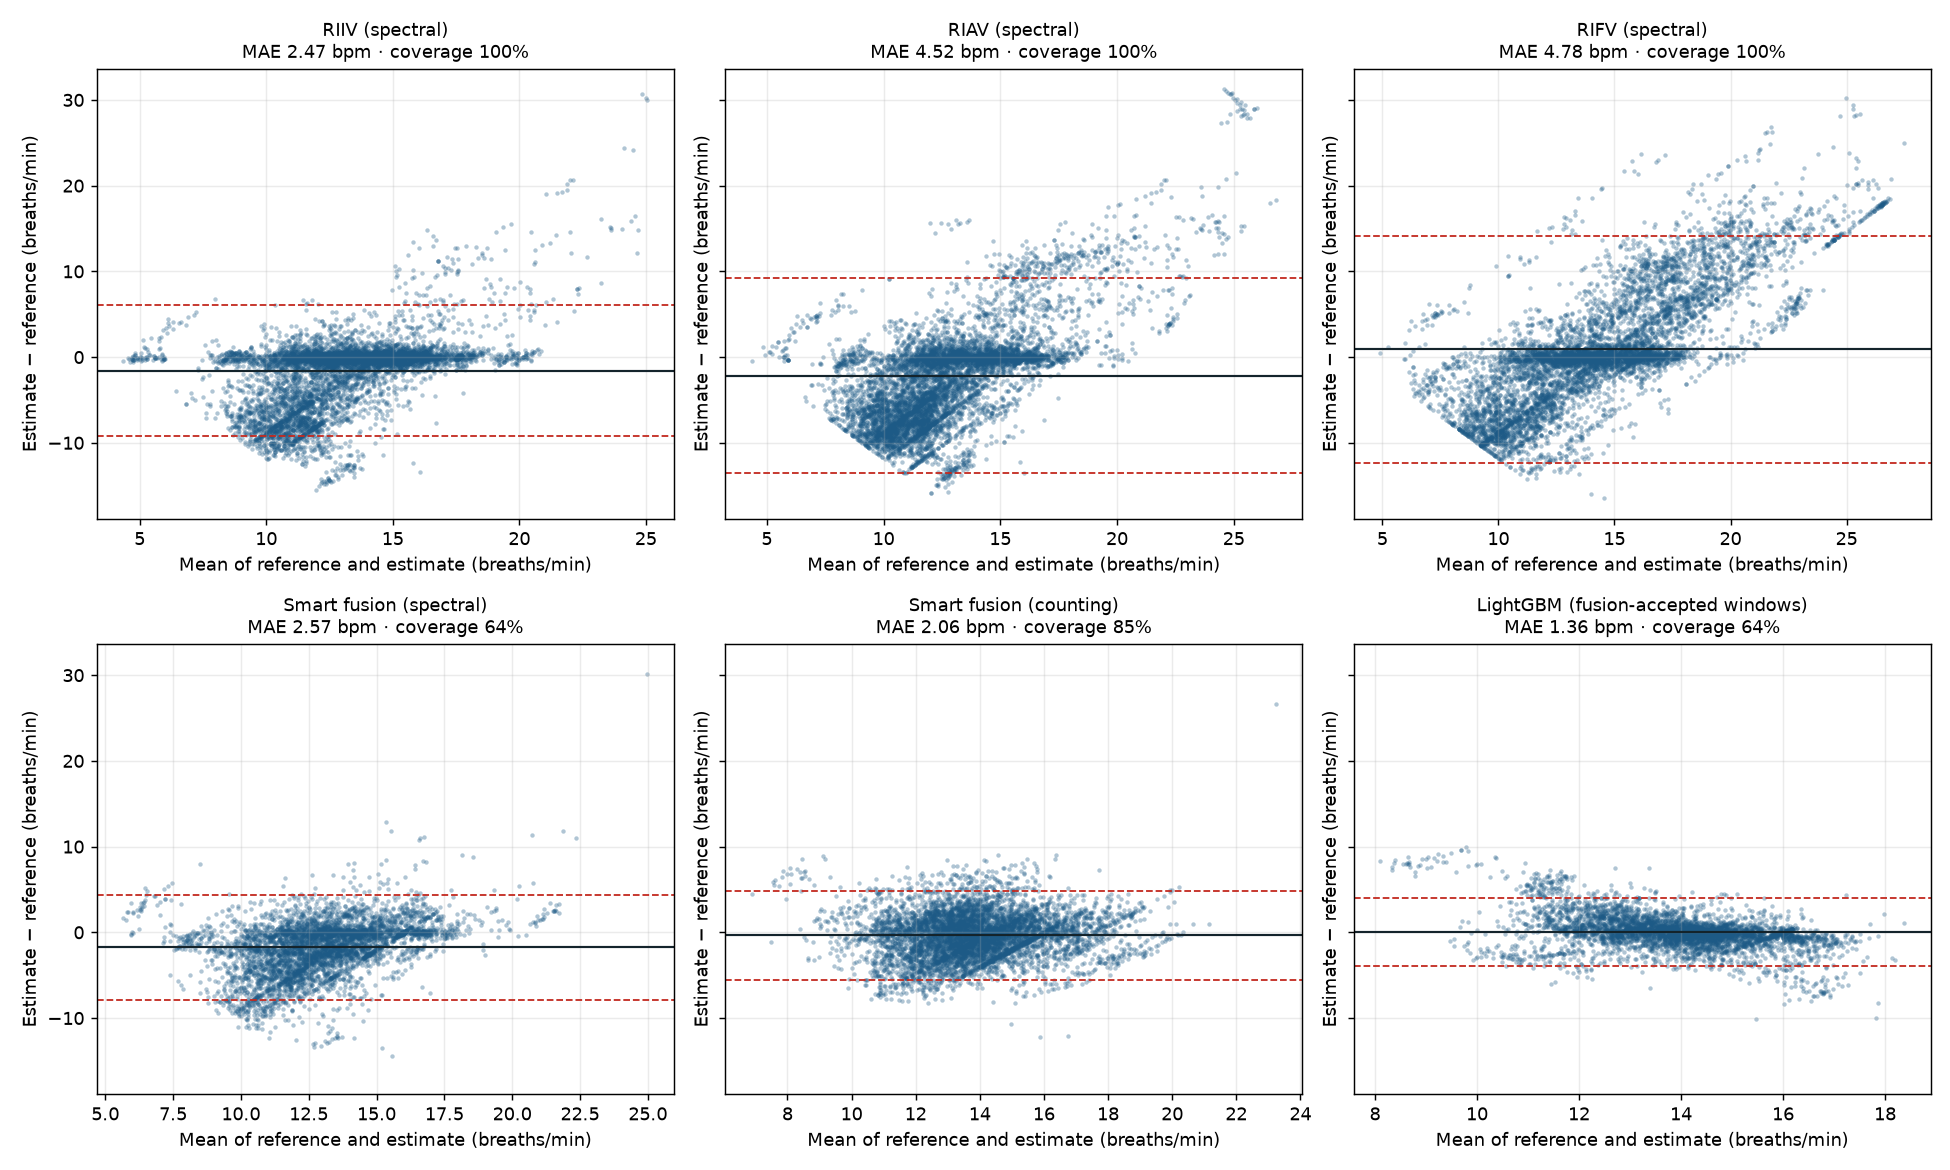
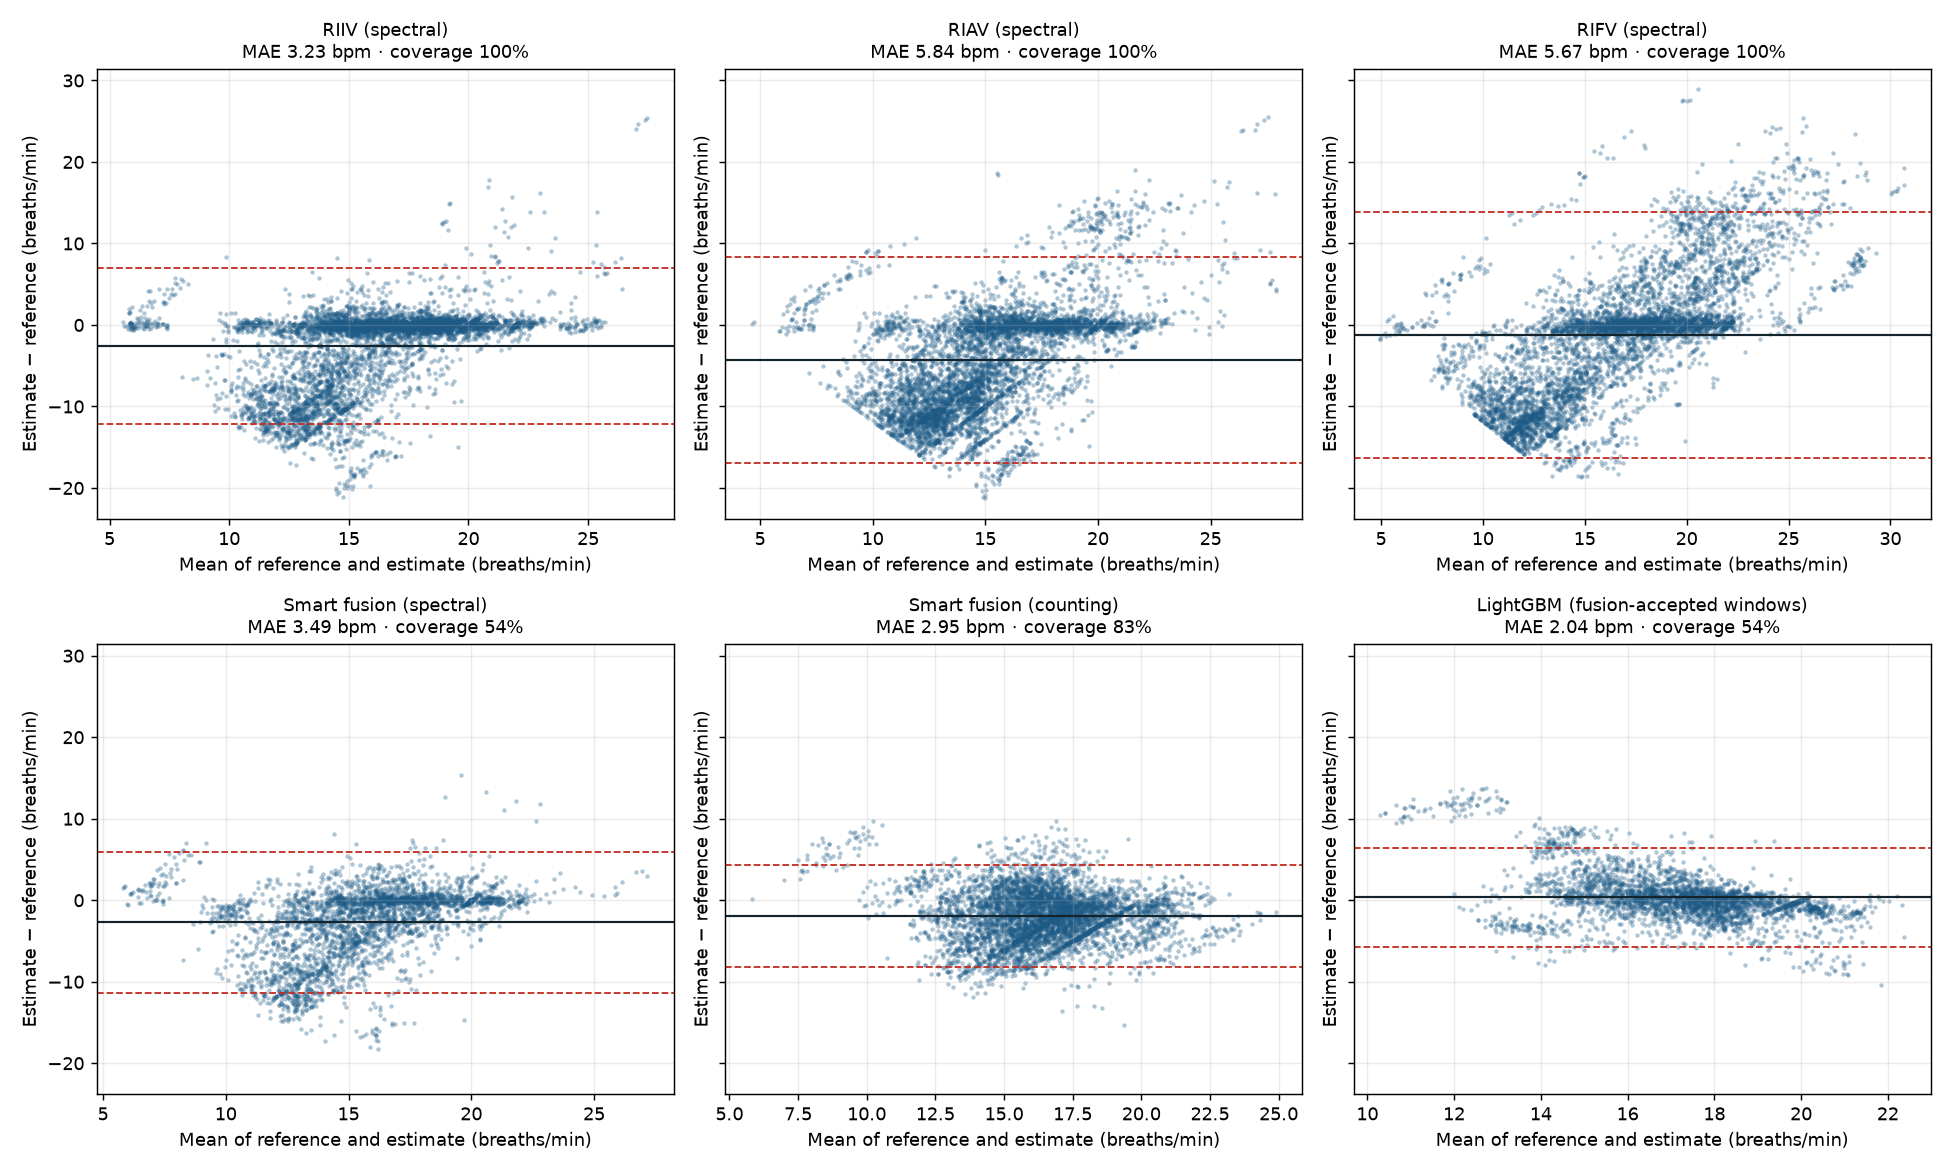
Fix BIDMC sampling rate and add heart-rate validation
The CSV timestamps are rounded, so the median step gave 100 Hz instead of 125 Hz; derive the rate from the sample count. All respiratory-rate results are recomputed: LightGBM MAE is 1.95 breaths/min and its worst band is slow breathing, not fast breathing as previously reported.

Add heart-rate validation against the monitor's ECG heart rate, including the deployed web algorithm run on 30 Hz PPG in Node: MAE 1.74 beats/min on 32 s windows. Document a failure case (subject 41).

diff --git a/scripts/hr_web_eval.js b/scripts/hr_web_eval.js
@@ -1,0 +1,51 @@
+/* Run the deployed browser algorithm (web/ppg-dsp.js) on BIDMC PPG, resampled to 30 Hz like a phone camera.
+   Usage: node scripts/hr_web_eval.js [csvDir] [out.csv]
+   Writes subject,start_s,win_s,web_hr,web_quality,web_rr for 32 s and 10 s windows. */
+const fs = require('fs');
+const path = require('path');
+const D = require('../web/ppg-dsp.js');
+
+function findCsvDir(root) {
+  for (const e of fs.readdirSync(root, { withFileTypes: true })) {
+    const p = path.join(root, e.name);
+    if (e.isDirectory()) { const hit = findCsvDir(p); if (hit) return hit; }
+    else if (e.name === 'bidmc_01_Signals.csv') return root;
+  }
+  return null;
+}
+
+const csvDir = process.argv[2] || findCsvDir('data/raw');
+const out = process.argv[3] || 'results/hr_web_predictions.csv';
+const WINDOWS = [[32, 8], [10, 4]];   // [length, step] in seconds
+const FS = 30;
+
+const rows = ['subject,start_s,win_s,web_hr,web_quality,web_rr'];
+const subjects = fs.readdirSync(csvDir).filter(f => /^bidmc_\d+_Signals\.csv$/.test(f)).map(f => f.split('_')[1]).sort();
+for (const s of subjects) {
+  const lines = fs.readFileSync(path.join(csvDir, `bidmc_${s}_Signals.csv`), 'utf8').trim().split(/\r?\n/);
+  const head = lines[0].split(',').map(c => c.trim());
+  const ti = head.findIndex(c => c.startsWith('Time')), pi = head.indexOf('PLETH');
+  const t = [], v = [];
+  for (let i = 1; i < lines.length; i++) {
+    const c = lines[i].split(',');
+    const val = parseFloat(c[pi]);
+    if (Number.isFinite(val)) { t.push(parseFloat(c[ti])); v.push(val); }
+  }
+  // 125 Hz -> 30 Hz uniform, as the camera pipeline sees it
+  const t0 = t[0], t1 = t[t.length - 1];
+  const x = D.resample(t, v, FS, t0, t1);
+  const tx = Array.from(x, (_, i) => t0 + i / FS);
+  for (const [win, step] of WINDOWS) {
+    for (let start = 0; start + win <= t1 - t0 + 1e-9; start += step) {
+      const a = Math.round(start * FS), b = Math.round((start + win) * FS);
+      const r = D.estimate(tx.slice(a, b), Array.from(x.slice(a, b)), { fs: FS, win });
+      const hr = r && Number.isFinite(r.hr) ? r.hr.toFixed(2) : '';
+      const rr = r && Number.isFinite(r.rr) ? r.rr.toFixed(2) : '';
+      rows.push([s, start, win, hr, r ? r.quality : '', rr].join(','));
+    }
+  }
+  process.stdout.write(`subject ${s} done\n`);
+}
+fs.mkdirSync(path.dirname(out), { recursive: true });
+fs.writeFileSync(out, rows.join('\n'));
+console.log(`wrote ${rows.length - 1} rows -> ${out}`);

diff --git a/scripts/validate_hr.py b/scripts/validate_hr.py
@@ -1,0 +1,108 @@
+"""Validate pulse-rate estimation against the ECG heart rate recorded by the BIDMC monitor.
+
+Compares, on 32 s and 10 s windows:
+  - peak detection (Python, 125 Hz)      60 / median beat interval
+  - spectral peak (Python, 125 Hz)
+  - the deployed web algorithm (ppg-dsp.js on 30 Hz PPG; run scripts/hr_web_eval.js first)
+  - the monitor's own pulse rate (PULSE), as a commercial reference point
+Usage:  python scripts/validate_hr.py
+"""
+from __future__ import annotations
+
+import argparse
+from pathlib import Path
+
+import matplotlib
+
+matplotlib.use("Agg")
+import matplotlib.pyplot as plt
+import numpy as np
+import pandas as pd
+
+from ppgrr.data import find_csv_dir, list_subjects, load_numerics, load_recording, window_mean
+from ppgrr.dsp import peak_hr, respiratory_modulations, spectral_hr
+from ppgrr.evaluate import agreement, bland_altman
+
+WINDOWS = [(32.0, 8.0), (10.0, 4.0)]
+
+
+def build(csv_dir: Path) -> pd.DataFrame:
+    rows = []
+    for s in list_subjects(csv_dir):
+        rec, num = load_recording(csv_dir, s), load_numerics(csv_dir, s)
+        mods = respiratory_modulations(rec.ppg, rec.fs)
+        for win, step in WINDOWS:
+            for start in np.arange(0.0, rec.duration - win + 1e-9, step):
+                end = start + win
+                rows.append({
+                    "subject": s, "start_s": float(start), "win_s": win,
+                    "ref_hr": window_mean(num, "HR", start, end),
+                    "monitor_pulse": window_mean(num, "PULSE", start, end),
+                    "peak_hr": peak_hr(mods["beat_times"], start, end),
+                    "spectral_hr": spectral_hr(mods["band"], rec.fs, start, end),
+                })
+    return pd.DataFrame(rows)
+
+
+def main() -> None:
+    ap = argparse.ArgumentParser()
+    ap.add_argument("--raw", type=Path, default=Path("data/raw"))
+    ap.add_argument("--web", type=Path, default=Path("results/hr_web_predictions.csv"))
+    ap.add_argument("--out", type=Path, default=Path("results"))
+    args = ap.parse_args()
+
+    df = build(find_csv_dir(args.raw))
+    if args.web.exists():
+        web = pd.read_csv(args.web, dtype={"subject": str})
+        df = df.merge(web[["subject", "start_s", "win_s", "web_hr", "web_quality"]],
+                      on=["subject", "start_s", "win_s"], how="left")
+    df = df[np.isfinite(df["ref_hr"])]
+
+    methods = {"Peak detection (125 Hz)": "peak_hr", "Spectral peak (125 Hz)": "spectral_hr",
+               "Web algorithm (30 Hz)": "web_hr", "Monitor pulse rate (commercial)": "monitor_pulse"}
+    rows = []
+    for win, _ in WINDOWS:
+        d = df[df.win_s == win]
+        for name, col in methods.items():
+            if col not in d:
+                continue
+            m = agreement(d["ref_hr"], d[col])
+            ok = np.isfinite(d[col])
+            err = (d[col] - d["ref_hr"])[ok]
+            m["mape_pct"] = float((err.abs() / d["ref_hr"][ok]).mean() * 100)
+            m["arms"] = float(np.sqrt((err ** 2).mean()))
+            m["within_5bpm"] = float((err.abs() <= 5).mean())
+            rows.append({"window_s": int(win), "method": name, **m})
+        if "web_quality" in d:   # does the quality flag single out bad windows?
+            for q in ("good", "fair", "poor"):
+                dq = d[d.web_quality == q]
+                if len(dq):
+                    rows.append({"window_s": int(win), "method": f"Web algorithm, quality={q}",
+                                 **agreement(dq["ref_hr"], dq["web_hr"])})
+    table = pd.DataFrame(rows)
+    args.out.mkdir(parents=True, exist_ok=True)
+    table.to_csv(args.out / "hr_metrics.csv", index=False)
+
+    d32 = df[df.win_s == 32]
+    cols = [c for c in methods.values() if c in d32]
+    fig, axes = plt.subplots(1, len(cols), figsize=(5 * len(cols), 4.5), sharey=True)
+    for ax, (name, col) in zip(np.atleast_1d(axes), [(n, c) for n, c in methods.items() if c in d32]):
+        bland_altman(ax, d32["ref_hr"], d32[col], name)
+        ax.set_xlabel("Mean of ECG HR and estimate (beats/min)")
+        ax.set_ylabel("Estimate − ECG HR (beats/min)")
+    fig.tight_layout()
+    fig.savefig(args.out / "hr_bland_altman.png", dpi=130)
+
+    # per-subject view: where do large errors come from?
+    if "web_hr" in d32:
+        per = d32.assign(err=(d32.web_hr - d32.ref_hr).abs()).groupby("subject")["err"].mean().sort_values(ascending=False)
+        per.round(2).to_csv(args.out / "hr_web_error_by_subject.csv")
+        print("worst subjects (web, 32 s MAE):", per.head(5).round(1).to_dict())
+
+    pd.set_option("display.width", 220)
+    print(table[["window_s", "method", "n", "coverage", "mae", "bias", "loa_low", "loa_high",
+                 "within_5bpm", "mape_pct", "arms"]].round(2).to_string(index=False))
+
+
+if __name__ == "__main__":
+    main()

diff --git a/tests/test_dsp.py b/tests/test_dsp.py
@@ -1,8 +1,8 @@
 import numpy as np
 import pytest
 
-from ppgrr.dsp import (counting_rr, resample_window, respiratory_modulations, smart_fusion,
-                       spectral_rr, synthetic_ppg)
+from ppgrr.dsp import (counting_rr, peak_hr, resample_window, respiratory_modulations, smart_fusion,
+                       spectral_hr, spectral_rr, synthetic_ppg)
 from ppgrr.evaluate import agreement
 
 
@@ -18,6 +18,14 @@ def test_each_modulation_recovers_known_rate(rr):
         assert 0 < conc <= 1
 
 
+@pytest.mark.parametrize("hr", [50.0, 72.0, 120.0])
+def test_heart_rate_estimators(hr):
+    fs = 125.0
+    mods = respiratory_modulations(synthetic_ppg(duration=40, fs=fs, hr=hr), fs)
+    assert abs(peak_hr(mods["beat_times"], 0, 40) - hr) < 2.0
+    assert abs(spectral_hr(mods["band"], fs, 0, 32) - hr) < 2.0
+
+
 def test_counting_matches_rate():
     t = np.arange(0, 60, 0.25)
     assert abs(counting_rr(np.sin(2 * np.pi * 12 / 60 * t)) - 12) < 1.0
@@ -27,6 +35,18 @@ def test_smart_fusion_rejects_disagreement():
     assert smart_fusion([15, 15.5, 14.5]) == pytest.approx(15.0)
     assert np.isnan(smart_fusion([10, 15, 25]))
     assert np.isnan(smart_fusion([15, np.nan, 15]))
+
+
+def test_loader_sampling_rate_ignores_rounded_timestamps(tmp_path):
+    from ppgrr.data import load_recording
+    n = 1001
+    t = np.round(np.arange(n) / 125.0, 2)          # rounded like the BIDMC CSVs
+    import pandas as pd
+    pd.DataFrame({"Time [s]": t, " RESP": 0.0, " PLETH": 0.0}).to_csv(tmp_path / "bidmc_01_Signals.csv", index=False)
+    pd.DataFrame({"breaths ann1 [signal sample no]": [1, 126]}).to_csv(tmp_path / "bidmc_01_Breaths.csv", index=False)
+    rec = load_recording(tmp_path, "01")
+    assert rec.fs == 125.0
+    assert rec.breaths["ann1"][1] == pytest.approx(1.0)
 
 
 def test_agreement_metrics():

diff --git a/src/ppgrr/data.py b/src/ppgrr/data.py
@@ -49,7 +49,9 @@ def load_recording(csv_dir: Path, subject: str) -> Recording:
     sig = pd.read_csv(csv_dir / f"bidmc_{subject}_Signals.csv")
     sig.columns = [c.strip() for c in sig.columns]
     t = sig[_col(sig, "Time")].to_numpy(dtype=float)
-    fs = float(round(1.0 / np.median(np.diff(t))))
+    # The CSV rounds timestamps (steps of 0.008 and 0.01 s), so the median step gives 100 Hz;
+    # derive the rate from sample count over the recording span instead (125 Hz).
+    fs = float(round((len(t) - 1) / (t[-1] - t[0])))
 
     br = pd.read_csv(csv_dir / f"bidmc_{subject}_Breaths.csv")
     br.columns = [c.strip() for c in br.columns]
@@ -65,6 +67,19 @@ def load_recording(csv_dir: Path, subject: str) -> Recording:
         resp=sig[_col(sig, "RESP")].to_numpy(dtype=float),
         breaths=breaths,
     )
+
+
+def load_numerics(csv_dir: Path, subject: str) -> pd.DataFrame:
+    """1 Hz monitor values: HR (from ECG), PULSE (monitor's own PPG pulse rate), RESP, SpO2."""
+    num = pd.read_csv(Path(csv_dir) / f"bidmc_{subject}_Numerics.csv")
+    num.columns = [c.strip() for c in num.columns]
+    return num.rename(columns={_col(num, "Time"): "time"})
+
+
+def window_mean(num: pd.DataFrame, col: str, start: float, end: float) -> float:
+    v = num.loc[(num["time"] >= start) & (num["time"] < end), col].to_numpy(dtype=float)
+    v = v[np.isfinite(v)]
+    return float(v.mean()) if len(v) >= 0.8 * (end - start) else np.nan
 
 
 def reference_rr(breath_times: np.ndarray, start: float, end: float) -> float:

diff --git a/src/ppgrr/dsp.py b/src/ppgrr/dsp.py
@@ -123,6 +123,26 @@ def counting_rr(y: np.ndarray, fs: float = RESAMPLE_HZ) -> float:
     return 60.0 * fs / float(np.mean(np.diff(keep)))
 
 
+def peak_hr(beat_times: np.ndarray, start: float, end: float) -> float:
+    """Pulse rate (beats/min) from the median beat interval in [start, end)."""
+    bt = beat_times[(beat_times >= start) & (beat_times < end)]
+    if len(bt) < 4:
+        return np.nan
+    return 60.0 / float(np.median(np.diff(bt)))
+
+
+def spectral_hr(band: np.ndarray, fs: float, start: float, end: float, nfft: int = 8192) -> float:
+    """Pulse rate (beats/min) from the spectral peak of the band-passed PPG, 40–180 beats/min."""
+    seg = band[int(start * fs):int(end * fs)]
+    if len(seg) < fs * 4:
+        return np.nan
+    seg = (seg - seg.mean()) * np.hanning(len(seg))
+    f = np.fft.rfftfreq(nfft, 1.0 / fs)
+    p = np.abs(np.fft.rfft(seg, nfft)) ** 2
+    band_ok = (f >= 40 / 60) & (f <= 180 / 60)
+    return 60.0 * float(f[np.argmax(np.where(band_ok, p, -1.0))])
+
+
 def smart_fusion(estimates, max_std: float = 4.0) -> float:
     """Average the modulation estimates only when they agree (Karlen et al., 2013); else NaN."""
     arr = np.asarray(estimates, dtype=float)

diff --git a/README.md b/README.md
@@ -42,30 +42,56 @@ QR Code 由 `python scripts/make_qr.py` 產生;網址改變時重新執行即可
 
 ## 結果
 
-53 位病人、7,518 個視窗,依病人分組 5 折交叉驗證(`results/metrics.csv`):
+### 呼吸速率
+
+53 位病人、5,986 個視窗,依病人分組 5 折交叉驗證(`results/metrics.csv`):
 
 | 方法 | 涵蓋率 | MAE(次/分) | 偏差 | 95% 一致性界限 | 誤差 ≤ 2 次/分 |
 |---|---|---|---|---|---|
-| 基線飄移(頻譜) | 100% | 2.47 | −1.57 | −9.2 ~ +6.1 | 67% |
-| 脈搏振幅(頻譜) | 100% | 4.52 | −2.17 | −13.5 ~ +9.2 | 41% |
-| 心跳間隔(頻譜) | 100% | 4.78 | +0.90 | −12.3 ~ +14.1 | 43% |
-| Smart fusion(頻譜) | 64% | 2.57 | −1.73 | −7.9 ~ +4.4 | 52% |
-| Smart fusion(呼吸計數) | 85% | 2.06 | −0.36 | −5.6 ~ +4.8 | 57% |
-| **LightGBM** | 100% | **1.49** | +0.04 | −4.3 ~ +4.4 | **75%** |
-| LightGBM(僅 fusion 接受的視窗) | 64% | 1.36 | +0.04 | −4.0 ~ +4.1 | 77% |
-| 兩位標註者之間(上限參考) | 100% | 0.32 | +0.12 | −1.7 ~ +2.0 | 94% |
+| 基線飄移(頻譜) | 100% | 3.24 | −2.53 | −12.1 ~ +7.0 | 65% |
+| 脈搏振幅(頻譜) | 100% | 5.84 | −4.28 | −16.9 ~ +8.3 | 37% |
+| 心跳間隔(頻譜) | 100% | 5.67 | −1.25 | −16.3 ~ +13.8 | 40% |
+| Smart fusion(頻譜) | 54% | 3.49 | −2.72 | −11.4 ~ +5.9 | 49% |
+| Smart fusion(呼吸計數) | 83% | 2.95 | −1.93 | −8.2 ~ +4.4 | 43% |
+| **LightGBM** | 100% | **1.95** | +0.14 | −5.7 ~ +6.0 | **68%** |
+| LightGBM(僅 fusion 接受的視窗) | 54% | 2.04 | +0.35 | −5.8 ~ +6.5 | 66% |
+| 兩位標註者之間(上限參考) | 100% | 0.38 | +0.16 | −2.0 ~ +2.4 | 93% |
 
 ![Bland-Altman](results/bland_altman.png)
 
-**重要發現:LightGBM 會往平均值靠攏。** 資料中 95% 的視窗呼吸速率落在每分鐘 10–20 次,模型在這個範圍表現最好,但在極端值反而比單一訊號處理方法差(`results/mae_by_rr_band.csv`):
+**重要發現:LightGBM 會往平均值靠攏。** 79% 的視窗呼吸速率落在每分鐘 12–20 次,模型在這個範圍表現最好,但在**呼吸過慢**時反而遠比簡單的訊號處理方法差(`results/mae_by_rr_band.csv`):
 
 | 參考呼吸速率 | 基線飄移 MAE | LightGBM MAE | 視窗數 |
 |---|---|---|---|
-| < 12 次/分 | 1.56 | 2.97 | 少數 |
-| 12–20 次/分 | 2.67 | 1.11 | 多數 |
-| 20–30 次/分 | 2.61 | 7.19 | 43 |
+| < 12 次/分 | **1.34** | 8.86 | 273 |
+| 12–20 次/分 | 3.03 | **1.38** | 4,723 |
+| > 20 次/分 | 4.73 | **2.76** | 990 |
 
-呼吸過快(> 20 次/分)正是臨床上最需要抓到的情況,所以平均誤差最低,不代表臨床上最有用。改善方向:依呼吸速率分層加權、蒐集更多高呼吸速率的資料,或讓模型輸出不確定性,在把握不足時拒絕輸出。
+呼吸過慢是臨床上要抓的警訊之一,例如術後鴉片類止痛藥造成的呼吸抑制;NEWS2 預警評分中,每分鐘 ≤ 8 次就是最高的 3 分。整體平均誤差最低的模型,可能在這種時候把數字往正常範圍拉,反而延誤警示。改善方向:依呼吸速率分層加權、蒐集更多呼吸過慢的資料,或讓模型輸出不確定性,在把握不足時拒絕輸出。
+
+### 心跳
+
+以 BIDMC 監視器同步記錄的**心電圖心跳**為參考值,32 秒與 10 秒視窗(`scripts/validate_hr.py`,`results/hr_metrics.csv`)。「網頁演算法」是把 PPG 降到每秒 30 個樣本(和手機鏡頭相同),再用實際上線的 `web/ppg-dsp.js` 計算(`scripts/hr_web_eval.js`)。
+
+| 視窗 | 方法 | MAE(次/分) | 偏差 | 95% 一致性界限 | 誤差 ≤ 5 次/分 |
+|---|---|---|---|---|---|
+| 32 秒 | 簡單波峰偵測(Python,125 Hz) | 2.49 | +1.45 | −21.3 ~ +24.2 | 96% |
+| 32 秒 | **網頁演算法(30 Hz)** | **1.74** | −0.59 | −6.7 ~ +5.6 | 96% |
+| 32 秒 | 監視器內建脈搏(商用演算法,對照) | 0.99 | −0.72 | −5.5 ~ +4.1 | 97% |
+| 10 秒 | **網頁演算法(30 Hz)** | 2.50 | −0.97 | −12.7 ~ +10.8 | 92% |
+| 10 秒 | 監視器內建脈搏(商用演算法,對照) | 1.36 | −0.73 | −6.8 ~ +5.4 | 95% |
+
+![心跳 Bland-Altman](results/hr_bland_altman.png)
+
+- 網頁演算法用頻譜心跳決定兩次心跳的最小間隔,一致性界限比簡單波峰偵測窄很多(±6 vs ±23),因為它不會把重搏切跡誤認成心跳。
+- **訊號品質標示有用:** 32 秒視窗中,「良好」的 MAE 是 1.44,「不穩定」是 4.78。
+- **已知失效情況:** 41 號病人的心電心跳約每分鐘 80 次,網頁演算法卻持續估成 50 次,而且標示「良好」。頻譜可能抓到了次諧波,使最小間隔被設得太大而漏掉心跳。品質標示衡量的是心跳間隔是否規律,**無法保證數值正確**。
+- 只有 10 秒的視窗誤差明顯變大,運動後心跳恢復模式若要用短視窗,需要先改善並另外驗證。
+- 這是醫療級血氧機的訊號降取樣後的結果,**不等於手機鏡頭的準確度**,手機鏡頭仍需要和參考設備同時量測比對。
+
+### 修正紀錄
+
+- **2026-11-06:取樣率錯誤。** BIDMC CSV 的時間欄位經過四捨五入,舊版用時間差的中位數推算取樣率,得到 100 Hz(正確是 125 Hz)。參考值和估算值被同樣縮放成 0.8 倍,所以結果看似合理,實際上數字和濾波頻帶都不正確。修正後重新計算,上方都是修正後的結果;舊版「LightGBM 在呼吸過快時最差」的結論不成立,改為「呼吸過慢時最差」。已加入單元測試防止再次發生。網頁演算法直接使用時間戳,不受影響。
 
 ## 網頁展示功能
 
@@ -81,7 +107,7 @@ QR Code 由 `python scripts/make_qr.py` 產生;網址改變時重新執行即可
 
 ```
 src/ppgrr/      dsp.py(訊號處理)、data.py(資料載入)、features.py、evaluate.py
-scripts/        prepare_data.py → run_experiments.py → export_demo.py
+scripts/        prepare_data.py → run_experiments.py → export_demo.py;心跳驗證:hr_web_eval.js → validate_hr.py
 tests/          合成訊號的單元測試
 web/            純前端網頁:index.html、ppg-dsp.js(dsp.py 的 JavaScript 版本)、log.js(量測紀錄)
 ```
@@ -97,6 +123,7 @@ pytest
 python scripts/prepare_data.py
 python scripts/run_experiments.py
 python scripts/export_demo.py
+node scripts/hr_web_eval.js && python scripts/validate_hr.py   # 心跳驗證
 python -m http.server 8000 -d web   # 開啟 http://localhost:8000
 ```
 
